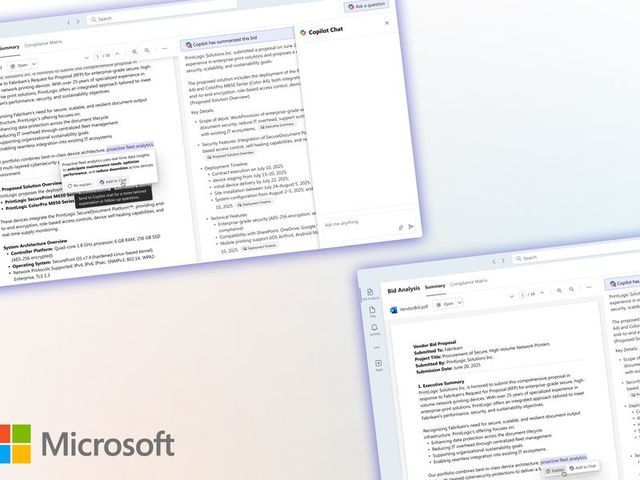
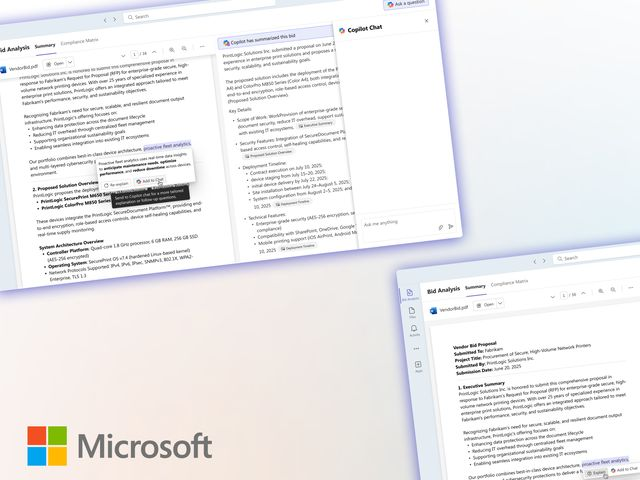
Smaller footer sign-off, tighter desktop landing gap, Microsoft Copilot for Sales, phone tin taps fixed
- 'Thanks for visiting!' at the 'lately' size, AW at the header mark size, smaller gap after the tin
- Desktop: hero no longer fills the screen; links -> My work gap fixed at ~136px (phones unchanged)
- Microsoft renamed and re-cropped (left-anchored, logo fully visible); old crop backed up
- Phones: roomier tin cluster, 'Tap the stickers' hint
- Tap vs hover decided per tap (pointer type + live hover check), so tin notes open on tap on any touch screen

diff --git a/src/style.css b/src/style.css
@@ -173,6 +173,12 @@ button { font: inherit; color: inherit; }
 .hero__about { margin-top: 14px; max-width: 46ch; font-size: 17px; color: var(--ink-soft); }
 .hero .links { margin-top: 28px; }
 
+/* Desktop: the hero used to fill the whole screen (min-height: 100svh), which left a big, screen-height-
+   dependent gap above "My work". Now it is a fixed ~136px (half of what it was on a 900px-tall screen). */
+@media (min-width: 769px) {
+  .hero { min-height: 0; padding-bottom: 56px; }
+  #work { padding-top: 80px; }
+}
 @media (max-width: 768px) {
   .hero { min-height: 0; padding-bottom: 32px; }   /* links → "My work" gap: half of before */
   .hero__stage { margin-top: 72px; }
@@ -373,6 +379,7 @@ button { font: inherit; color: inherit; }
 /* ---------- 5. TIN ---------- */
 .tin-head { text-align: center; margin-bottom: clamp(8px, 2vw, 20px); }
 .tin-head__sub { font-size: 17px; color: var(--ink-soft); }
+.tin-head__hint { display: none; margin-top: 2px; font-size: 13px; letter-spacing: .02em; color: var(--ink-soft); }   /* phones only */
 /* padding-bottom also holds the subtitle's 3.4px pull-up (a negative margin there would collapse into this one's) */
 .tin-head__title { font-size: min(14vw, 150px); padding: var(--room) .3em calc(var(--room) + .1em - 3.4px); margin-top: calc(8px - var(--room)); }
 
@@ -505,7 +512,8 @@ button { font: inherit; color: inherit; }
    (spots worked out in main.js). Stage height = the open tin (62% wide, 500:680) + room for the two rows. */
 @media (max-width: 768px) {
   #tin { container-type: inline-size; }
-  .toss-stage { height: calc(100cqi * .62 * 680 / 500 + 190px); }
+  .tin-head__hint { display: block; }
+  .toss-stage { height: calc(100cqi * .62 * 680 / 500 + 212px); }
   .toss-stage .tin { top: 0; width: 62%; translate: -50% 0; }
   .tin-shake { margin-top: 0; }
   .toss { --size: 70px; }
@@ -529,13 +537,14 @@ button { font: inherit; color: inherit; }
   border-top: 1px solid var(--ink); padding-top: 16px;
 }
 /* the closing line, above the footer hairline: the main goodbye */
+#tin { padding-bottom: clamp(48px, 6vw, 80px); }   /* less space before the goodbye */
 .thanks {
-  text-align: center; font-size: min(15vw, 120px); line-height: 1.1;
+  text-align: center; font-size: clamp(48px, 5vw, 64px); line-height: 1.1;   /* same size as "lately" */
   padding: var(--room) .3em;
-  margin: calc(clamp(32px, 6vw, 80px) - var(--room)) 0 calc(clamp(28px, 4vw, 48px) - var(--room));
+  margin: calc(clamp(8px, 1.5vw, 20px) - var(--room)) 0 calc(clamp(12px, 2vw, 24px) - var(--room));
 }
 /* the AW signature: small and quiet under the footer row */
-.signoff { text-align: center; font-size: min(19.5vw, 130px); line-height: 1; margin-top: calc(clamp(16px, 3vw, 32px) - var(--room)); padding: var(--room) .3em; }
+.signoff { text-align: center; font-size: 46px; line-height: 1; margin-top: calc(clamp(12px, 2vw, 24px) - var(--room)); padding: var(--room) .3em; }   /* same size as the AW mark top-left */
 
 /* ---------- 7. REDUCED MOTION: final states, no animation ---------- */
 @media (prefers-reduced-motion: reduce) {

diff --git a/src/main.js b/src/main.js
@@ -53,7 +53,12 @@ const SKILLS_SPEED = 34; // px per second
 const skillsTrack = document.querySelector('.skills__track');
 if (skillsTrack) skillsTrack.style.animationDuration = `${skillsTrack.scrollWidth / 2 / SKILLS_SPEED}s`;
 
-const canHover = window.matchMedia('(hover: hover)').matches;
+// Can this device hover? Checked live (not just once at load), and every tap also records its pointer
+// type, so touch taps work even on touch laptops or in the browser's device mode.
+const hoverMQ = window.matchMedia('(hover: hover)');
+let lastPointer = 'mouse';
+document.addEventListener('pointerdown', (e) => { lastPointer = e.pointerType; }, true);
+const isTouchTap = (e) => e.pointerType === 'touch' || (!e.pointerType && lastPointer === 'touch') || !hoverMQ.matches;
 
 /* =============================================================
    WORK STICKERS: when to flip
@@ -98,7 +103,7 @@ const wasSwipe = (e) => press && (Math.abs(press.row.scrollLeft - press.scroll) 
 document.addEventListener('click', (e) => {
   const card = e.target.closest('.sticker__card');
   if (!card || e.target.closest('a')) return;
-  if (canHover && e.pointerType !== 'touch') return;   // mouse uses the hover logic above
+  if (!isTouchTap(e)) return;   // mouse uses the hover logic above
   if (wasSwipe(e)) return;
   card.classList.toggle('is-flipped');
 });
@@ -159,14 +164,14 @@ const SPOTS = {
 };
 // Phones: a tight "just spilled out" cluster right under the tin: 4 on top, 3 below,
 // offset so they interlock. Worked out in px from the real tin + item sizes, returned as fractions.
-const CLUSTER_X = [[0.125, 0.375, 0.625, 0.875], [0.25, 0.5, 0.75]];
+const CLUSTER_X = [[0.11, 0.37, 0.63, 0.89], [0.24, 0.5, 0.76]];   // spread to the stage edges
 const CLUSTER_NUDGE_Y = [-4, 5, -2, 6, 3, -5, 2];   // small fixed wobble so the rows don't look ruled
 function clusterSpots() {
   const { width: W, height: H } = stage.getBoundingClientRect();
   const itemH = Math.max(...tosses.map((el) => el.offsetHeight));
   const tinBottom = tin.offsetTop + tin.offsetHeight;
   const row1 = tinBottom + 14 + itemH / 2;
-  const row2 = row1 + itemH + 10;
+  const row2 = row1 + (itemH + 10) * 1.2;   // rows ~20% further apart
   const spots = [];
   CLUSTER_X.forEach((xs, r) => xs.forEach((x) => spots.push([x, (r ? row2 : row1) / H])));
   return spots.map(([x, y], i) => [x, y + CLUSTER_NUDGE_Y[i] / H]);
@@ -399,11 +404,11 @@ tosses.forEach((el) => {
   el.addEventListener('pointercancel', drop);
 });
 
-// tap (touch screens): show one note at a time; tap elsewhere to hide it
+// tap (touch screens): show one note at a time; tap it again or anywhere else to hide it
 document.addEventListener('click', (e) => {
+  if (!isTouchTap(e)) return;   // mouse uses hover (CSS)
   const el = e.target.closest('.toss');
-  if (canHover) return;
-  if (!el) { clearNotes(); return; }
+  if (!el || !el.classList.contains('is-out')) { clearNotes(); return; }
   const was = el.classList.contains('is-active');
   clearNotes();
   if (!was) { placeNote(el); el.classList.add('is-active'); }

diff --git a/index.html b/index.html
@@ -198,16 +198,16 @@
           </li>
           <li class="sticker" style="--tilt:-4deg; --y:-18px; --i:1">
             <div class="sticker__body">
-              <div class="sticker__card" tabindex="0" role="group" aria-label="Microsoft">
-                <span class="sticker__face sticker__front"><img src="/images/stickers/microsoft.jpg" alt="Microsoft bid review interface mockups" width="640" height="480" loading="lazy" /></span>
+              <div class="sticker__card" tabindex="0" role="group" aria-label="Microsoft Copilot for Sales">
+                <span class="sticker__face sticker__front"><img src="/images/stickers/microsoft.jpg" alt="Microsoft Copilot for Sales bid review interface mockups" width="640" height="480" loading="lazy" style="object-position: left bottom" /></span>
                 <span class="sticker__face sticker__back">
-                  <span class="sticker__back-name">Microsoft</span>
+                  <span class="sticker__back-name">Microsoft Copilot for Sales</span>
                   <span class="sticker__back-desc">AI-powered bid review experience to help buyers navigate complex information and make more confident purchasing decisions.</span>
                   <a class="sticker__link" href="https://jeweled-cousin-792.notion.site/Microsoft-Copilot-for-Sales-20b848fa74cd8132a813ecf156358a7f" target="_blank" rel="noopener noreferrer">Case Study<span aria-hidden="true"> ↗</span></a>
                 </span>
               </div>
               <p class="tag tag--project">Project</p>
-              <h4 class="sticker__name">Microsoft</h4>
+              <h4 class="sticker__name">Microsoft Copilot for Sales</h4>
               <p class="sticker__role">Contract Designer · 2025</p>
             </div>
           </li>
@@ -248,6 +248,7 @@
       <header class="tin-head" data-reveal>
         <h2 class="script tin-head__title writes">What<span class="apos">’</span>s in my tin?</h2>
         <p class="tin-head__sub">A few of my favorite things</p>
+        <p class="tin-head__hint">Tap the stickers</p>
       </header>
 
       <div class="toss-stage" data-stage>

diff --git a/CLAUDE.md b/CLAUDE.md
@@ -49,10 +49,11 @@ Single-page personal site for Angela Wang, a CS student (Cornell). Vite + vanill
 
 ## Page structure (one scrolling page, `index.html`)
 1. **Hero** (`#top`): AW mark top-left (no other top labels). Huge "ANGELA" (Anton). The stop-motion sticker stands IN FRONT of the letters, over the right leg of the final A so the name still reads. Dusty rose script "Hi, I’m" is rotated across the top of ANGELA. Below: "/// CS '28 @ Cornell" label, "I like products, and I like people." (strong secondary line), a short quiet paragraph, and minimal links: Email (`mailto:aw858@cornell.edu`), LinkedIn (`https://www.linkedin.com/in/angela-wang-3b6767212/`), GitHub (`https://github.com/angierinne`). LinkedIn/GitHub open in a new tab (`target="_blank" rel="noopener noreferrer"`). **No Resume link.**
+   - Desktop: the hero does NOT fill the screen (no `min-height: 100svh`); the links → "My work" gap is a fixed ~136px (hero padding-bottom 56px + `#work` padding-top 80px, inside `@media (min-width: 769px)`). Phones: 68px.
    - Entrance (~1.5s): ANGELA's letters rise in → the script writes in (mask wipe) → `[data-rise]` lines fade up in sequence.
 2. **My work** (`#work`): small header ("/// MY WORK" label + dusty rose script "lately"). Two STATIC rows of 3 photo stickers, placed by hand (not a rigid grid):
    - Row 1 (experience): Design Consulting at Cornell (LEADERSHIP · President · 2026 – Present), Mastercard (INTERNSHIP · Technical Product Management Intern · 2026), PTC (INTERNSHIP · User Experience and Research Intern · 2025). Script note "where I’ve worked" + arrow on its RIGHT; the row sits slightly left.
-   - Row 2 (projects): DocuPal (PROJECT · Developer and Designer · 2026), Microsoft (PROJECT · Contract Designer · 2025), Pinpoint (PROJECT · Designer · 2024).
+   - Row 2 (projects): DocuPal (PROJECT · Developer and Designer · 2026), Microsoft Copilot for Sales (PROJECT · Contract Designer · 2025), Pinpoint (PROJECT · Designer · 2024).
    - Wide screens: each note's arrow tip points at the middle of the photo next to it (PTC / DocuPal). The CSS works this out from the sticker size (`--card-h`, container units) and that sticker's `--y` (`--aim-y`); if you change PTC's or DocuPal's `--y`, update `--aim-y` too. Script note "things I’ve made" + arrow on its LEFT; the row sits slightly right.
    - Each sticker: 4:3 photo with a white border + shadow, tilt `--tilt` (-4° to 4°), vertical wave offset `--y`, slap-in order `--i`. Underneath: tag pill, name and role · year at 17px (same as the landing paragraph).
    - Motion: on scroll each row's stickers get "slapped on" one by one (drop from above, a bit bigger and more tilted, land, bounce, settle), then the note fades in and its arrow draws in.
@@ -62,11 +63,11 @@ Single-page personal site for Angela Wang, a CS student (Cornell). Vite + vanill
    - Description text must fit inside the sticker (back font sizes use container query units `cqi`). If text grows, make the stickers bigger rather than cutting text.
    - **Skills ticker** at the bottom of the section, under the projects row: small Afacad uppercase, letter-spaced, Mocha Green, dusty rose `·` separators, a faint hairline above. Slow drift left (~34px/s, speed set from its width in main.js), pauses on hover, static with reduced motion. Written twice in the HTML for a seamless loop (edit both copies). No Anton.
    - (Removed: the auto-sliding carousel, the big interests marquee.)
-3. **Finale: What’s in my tin?** (`#tin`): dusty rose script title + "A few of my favorite things" (Afacad). A stage (`.toss-stage`) with the DRAWN tin centered (original SVG inspired by her real tin; the photos have fingers/jeans covering the edges, so they can't be cut out cleanly). On phones (≤768px) the tin sits at the top and the items land in a tight "just spilled out" cluster right under it: 4 on top, 3 below, offset so they interlock, small tilts, never on the tin or each other (`clusterSpots()` in main.js, worked out from the real tin + item sizes). The stage is only as tall as the open tin + the two rows, and "Shake the tin" sits right below. Shaking re-scatters into the same cluster.
+3. **Finale: What’s in my tin?** (`#tin`): dusty rose script title + "A few of my favorite things" (Afacad) + on phones only a small hint "Tap the stickers" (`.tin-head__hint`). A stage (`.toss-stage`) with the DRAWN tin centered (original SVG inspired by her real tin; the photos have fingers/jeans covering the edges, so they can't be cut out cleanly). On phones (≤768px) the tin sits at the top and the items land in a tight "just spilled out" cluster right under it: 4 on top, 3 below, offset so they interlock (spread to the stage edges, rows ~20% apart beyond the item height), small tilts, never on the tin or each other (`clusterSpots()` in main.js, worked out from the real tin + item sizes). The stage is only as tall as the open tin + the two rows, and "Shake the tin" sits right below. Shaking re-scatters into the same cluster.
    - Sequence: closed → small wiggle → lid lifts → swings open on a hinge (inside of lid shows AW) → the 7 items POP OUT of the tray one by one and scatter around the tin, each landing at a random tilt with a bounce. Spots are random but balanced (3–4 per side on desktop) from the `SPOTS` lists in main.js; nothing overlaps the tin, the title, or each other.
    - Items (all with a white sticker border, `#sticker-item` filter): sushi, yoga, traveling, smiski (her photo), candles, crafting (a crochet yarn ball + hook), walks. Notes (on hover / tap) have two lines: the item name as a dusty rose script label ("sushi", "yoga", "traveling", "smiski", "candles", "crafting", "walks"), then the note in Afacad 16px (15px on phones), Mocha Green, plus a tiny arrow at the item. `placeNote()` in main.js tries above / below / left / right with small slides and picks the spot that stays inside the stage and clear of other items. On phones the note opens just above the tapped item (below only if there's no room on screen), fully on screen and in front of its neighbors, with a soft Soft Sand glow behind it (no box). Note text: Sushi "Toro nigiri and lots of tuna", Yoga "Flowing to savasana", Traveling "Favorite city so far: Barcelona!", Smiski "I have 14 in my room", Candles "Currently burning: warm vanilla", Crafting "I crochet bags and plushies", Walks "Daily walks while Ithaca weather allows".
    - Play: drag items with a mouse/pen (kept inside the stage); drop one on the tin and it goes back inside. Touch dragging is off so it doesn't fight page scrolling (tap shows the note). "Shake the tin" (Afacad, rose underline) collects every item, shakes the tin, and scatters them to new spots.
-4. **Footer** (`#contact`): a big dusty rose script "Thanks for visiting!" (the main closing moment, writes in on scroll, generous space above it), then the hairline row (name, contact links, ©), then a smaller, quiet "AW" signature that writes itself in.
+4. **Footer** (`#contact`): dusty rose script "Thanks for visiting!" at the same size as "lately" (writes in on scroll, a calm gap after "Shake the tin": `#tin` padding-bottom is smaller than other sections), then the hairline row (name, contact links, ©), then a quiet "AW" signature at the same size as the top-left AW mark (46px).
 
 ## Motion rules
 - Smooth, confident, editorial: slides, reveals, writing-in, using `--ease` (ease-out) / `--ease-io` (ease-in-out) with no overshoot. Never chaotic.
@@ -79,7 +80,7 @@ Single-page personal site for Angela Wang, a CS student (Cornell). Vite + vanill
 - `src/style.css`: all styles, numbered sections.
 - `src/main.js`: hero entrance (letter split + stagger), scroll reveals (`[data-reveal]` → `.is-in`), skills ticker speed, sticker tap-to-flip on touch screens, tin state machine (`data-state` = closed / wiggle / pop / open), item toss/scatter, notes, drag, drop-into-tin, shake.
 - `public/images/me_photo{1,2,3}.png`: hero frames, already trimmed, scaled to the same height, aligned on one baseline (shared 696×1180 canvas, 40px transparent padding for the outline), quantized to ~120KB each.
-- `public/images/stickers/*.jpg`: the 6 work photos, all cropped to 4:3 (640×480), JPEG q80. `mastercard.jpg` was brightened ~20% with a gamma-0.75 curve (lifts shadows and mids, never clips highlights); the pre-brightening version is in `images/backup/mastercard_original.jpg`. Microsoft is cropped from the left so its logo stays in.
+- `public/images/stickers/*.jpg`: the 6 work photos, all cropped to 4:3 (640×480), JPEG q80. `mastercard.jpg` was brightened ~20% with a gamma-0.75 curve (lifts shadows and mids, never clips highlights); the pre-brightening version is in `images/backup/mastercard_original.jpg`. `microsoft.jpg` is a left-anchored 4:3 crop of `images/microsoft.png` with a margin around the Microsoft logo (bottom-left) so the sticker border never clips it; the img also has `object-position: left bottom`. The previous crop is in `images/backup/microsoft_previous.jpg`.
 - `public/images/tin/*.svg`: lid top, lid inside, tray. `public/images/charms/`: the tin items: original drawings (`sushi`, `yoga`, `travel`, `candles`, `craft` = crochet yarn ball, `walks` `.svg`) + `smiski.png` (her photo, trimmed to 245×324, transparent). Don't draw the Smiski character; use her photo.
 - `images/`: original source photos (not served). **iPhone HEICs carry an EXIF rotation**: apply it when converting (Pillow `ImageOps.exif_transpose`), or the photo comes out sideways.
 
@@ -89,27 +90,30 @@ Single-page personal site for Angela Wang, a CS student (Cornell). Vite + vanill
 - "Writing in" = a left-to-right CSS mask wipe (`.writes`, `@keyframes write`). It runs when the element (or its `[data-reveal]` parent) gets `.is-in`. The hero script runs on `.hero.is-ready`.
 - Tin lid uses a 3D hinge flip (`rotateX(180deg)`, `transform-origin` at the top edge, `backface-visibility`). **Never put `filter` on `.tin__lid` or its ancestors**: it flattens the 3D and both faces show. Shadows go on each `.lid-face`.
 - The smiski photo is taller than the drawings, so `.toss__art--photo` sizes it by height to match.
-- Tin items: absolutely positioned at the stage's top-left and moved with the `translate` / `scale` properties (the bouncy transition does the toss). Their tilt is `--r` on `.toss__art` (not the button), so notes stay level. Positions are stored as the item CENTER in stage fractions, so they survive resizes; crossing the 700px breakpoint re-scatters. `.no-anim` places things instantly. Notes open above / below / left / right (`data-v`), aligned start / center / end (`data-h`), plus a small slide (`--nx` / `--ny`), all chosen by `placeNote()`. Stage height: `clamp(660px, 58vw, 780px)`; on phones it's the open tin + 190px (`#tin` is a size container, so `100cqi` = its width).
+- Tin items: absolutely positioned at the stage's top-left and moved with the `translate` / `scale` properties (the bouncy transition does the toss). Their tilt is `--r` on `.toss__art` (not the button), so notes stay level. Positions are stored as the item CENTER in stage fractions, so they survive resizes; crossing the 768px breakpoint re-scatters. `.no-anim` places things instantly. Notes open above / below / left / right (`data-v`), aligned start / center / end (`data-h`), plus a small slide (`--nx` / `--ny`), all chosen by `placeNote()`. Stage height: `clamp(660px, 58vw, 780px)`; on phones it's the open tin + 190px (`#tin` is a size container, so `100cqi` = its width).
 - Work rows: the slap-on animation runs on the `<li>` (`translate`/`scale`/`rotate`, fill forwards), the neighbor nudge on `.sticker__body`, the tilt/lift on `.sticker__card`, so the three never fight. The generic fade-up reveal skips `.work-group`.
 - Sticker flip: `.sticker__card` holds the tilt/lift (`rotate`/`translate` properties) and `perspective`; each face (`.sticker__front`, `.sticker__back`) rotates on its own with `backface-visibility: hidden`. Never put `filter` on the card (it flattens 3D); shadows are `box-shadow` on the faces. The pop-in animates the outer `<li>` (`scale`/`translate`), so it doesn't fight the hover lift.
 - Breakpoints: 1000px (work notes above rows), 768px = phones (hero stacks with tighter spacing, swipeable work rows + dots, tin cluster). **Desktop must not change when editing phone styles**: put phone-only changes inside `@media (max-width: 768px)`.
+- Taps vs hover: main.js decides per tap (`isTouchTap()`: the event's pointer type, the last pointerdown's type, and a LIVE `(hover: hover)` check), never once at load. So taps open tin notes / flip stickers on phones, touch laptops and in the browser's device mode, while mouse hover keeps working.
 - Keep code simple and commented. Angela edits it herself.
 
 ## Commands
 `npm run dev` (http://localhost:5173), `npm run build`, `npm run preview`.
 
-## Where we left off (2026-11-23)
-- **State:** the site is feature-complete for a first launch. Hero, "My work" (two hand-placed sticker rows on desktop, swipeable rows with dots on phones, flip-to-description with links on the backs), the tin finale (toss-and-scatter on desktop, spilled-out cluster on phones), and the footer ("Thanks for visiting!" + small AW signature). All committed.
-- **Latest round (2026-11-23):** fixed script swashes being clipped flat at the top (`.writes` `--room`); added "Thanks for visiting!" and shrank the AW signature; phone-only layout changes at ≤768px (tighter hero spacing, swipe rows + dots, compact tin cluster, notes above items). Desktop was pixel-diffed against the previous version: only the unclipped swashes and the footer changed.
-- **Earlier (2026-11-22):** new landing paragraph; arrows aimed at PTC / DocuPal; calmer flip (center ~70% + 150ms); back links (DCC, DocuPal, Microsoft, Pinpoint); two-line tin notes; removed the marquee, counters, carousel and "Ithaca, NY".
-- **How it was checked:** puppeteer (system Chrome) at 1440 / 1100 / 900px and 390 / 430px in device mode, plus reduced motion. Checks: no horizontal scroll, no sticker/tin overlaps, notes on screen, swipe doesn't flip, links clickable when flipped, no console errors.
+## Where we left off (2026-11-24)
+- **State:** feature-complete for a first launch, all committed. Hero, "My work" (hand-placed sticker rows on desktop, swipeable rows with dots on phones, flip-to-description with links on the backs), the tin finale (toss-and-scatter on desktop, spilled-out cluster on phones), and the footer.
+- **Latest round (2026-11-24):** footer scaled down ("Thanks for visiting!" = "lately" size, AW = header mark size, smaller gap after the tin); desktop landing gap fixed at ~136px (was 272px+ and grew with screen height because the hero filled the screen); Microsoft renamed "Microsoft Copilot for Sales" and re-cropped so its logo is fully visible; phones: roomier tin cluster, "Tap the stickers" hint, and the tap-to-open-note bug fixed (hover was detected once at load, so taps were ignored on touch laptops / device mode).
+- **Earlier (2026-11-23):** script swashes no longer clipped (`.writes` `--room`); "Thanks for visiting!" added; phone layout (tighter hero, swipe rows + dots, tin cluster).
+- **Earlier (2026-11-22):** new landing paragraph; arrows aimed at PTC / DocuPal; calmer flip; back links; two-line tin notes; removed the marquee, counters, carousel and "Ithaca, NY".
+- **How it was checked:** puppeteer (system Chrome) at 1440 / 1100 / 900px and 390 / 430px with touch emulation (+ a touch-enabled 1200px screen), plus reduced motion. Checks: no horizontal scroll, no sticker/tin overlaps, notes open on tap and stay on screen, one note at a time, desktop hover notes, swipe doesn't flip, links clickable when flipped, no console errors.
 
 ### Open questions for Angela
 - "DocuPal" spelling.
+- The tin hint is "Tap the stickers" (sentence case, per the brand rule); say if you want it all lowercase.
 - The rose script headline "What’s in my tin?" is large but low contrast (~2.1:1). It's mostly decorative.
 - Favicon script is thin at 16px tab size.
 - On phones the sticker covers part of the final "A" in ANGELA.
-- Phone tin cluster is ~75% shorter than before (asked for 50–60%), tight on purpose so it reads as "spilled out". Loosen `row2` / the 14px gap in `clusterSpots()` if it feels cramped.
+- Phone tin cluster: within a row the items can only spread to the screen edges, so gaps grew ~20–50% but the center-to-center distance only ~4%; the rows are ~20% further apart.
 - On phones a tap note covers its neighbors behind a soft sand glow; over the tin's shadow the glow can read as a faint lighter patch.
 - Tablet (769–1000px) tin notes: in rare crowded random layouts a note's corner can brush another item's box by a few px.
 - Flipped-sticker back text is small on tablets (~12.5px).
